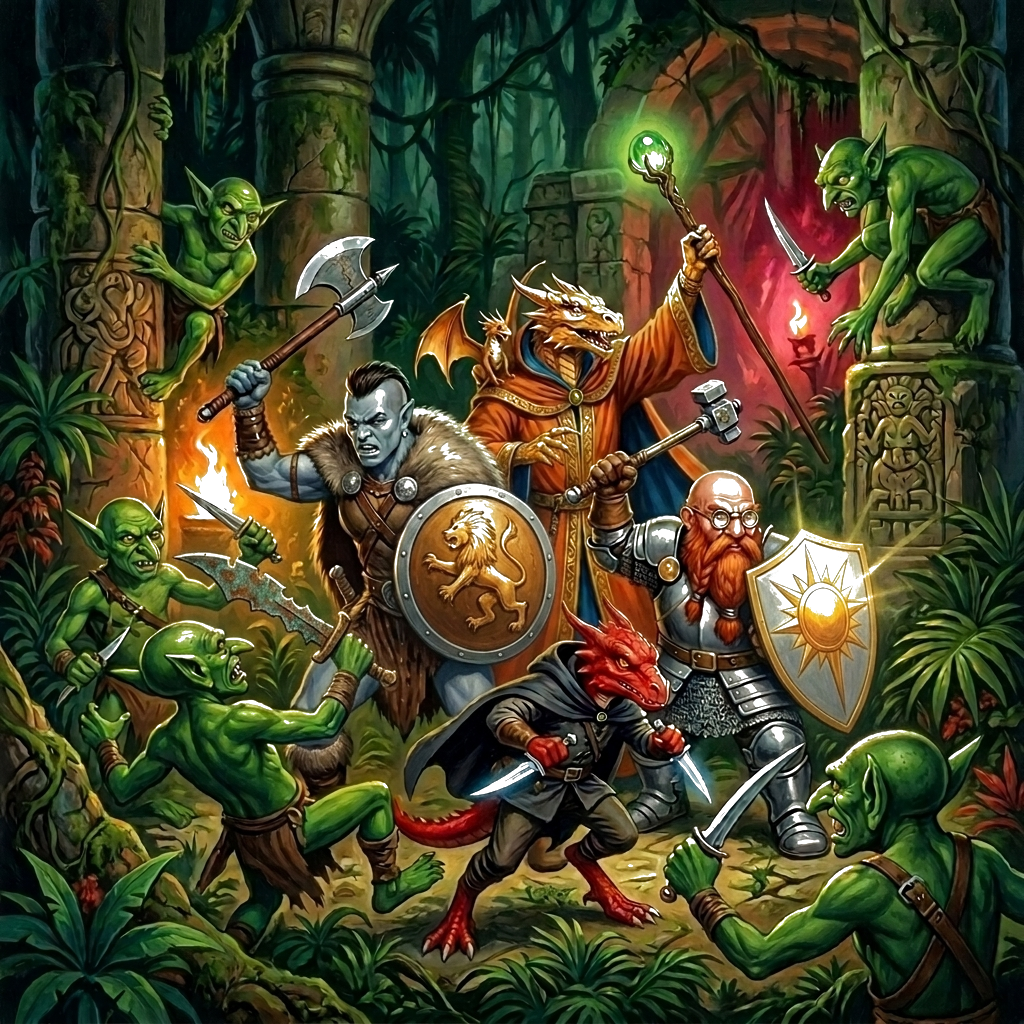
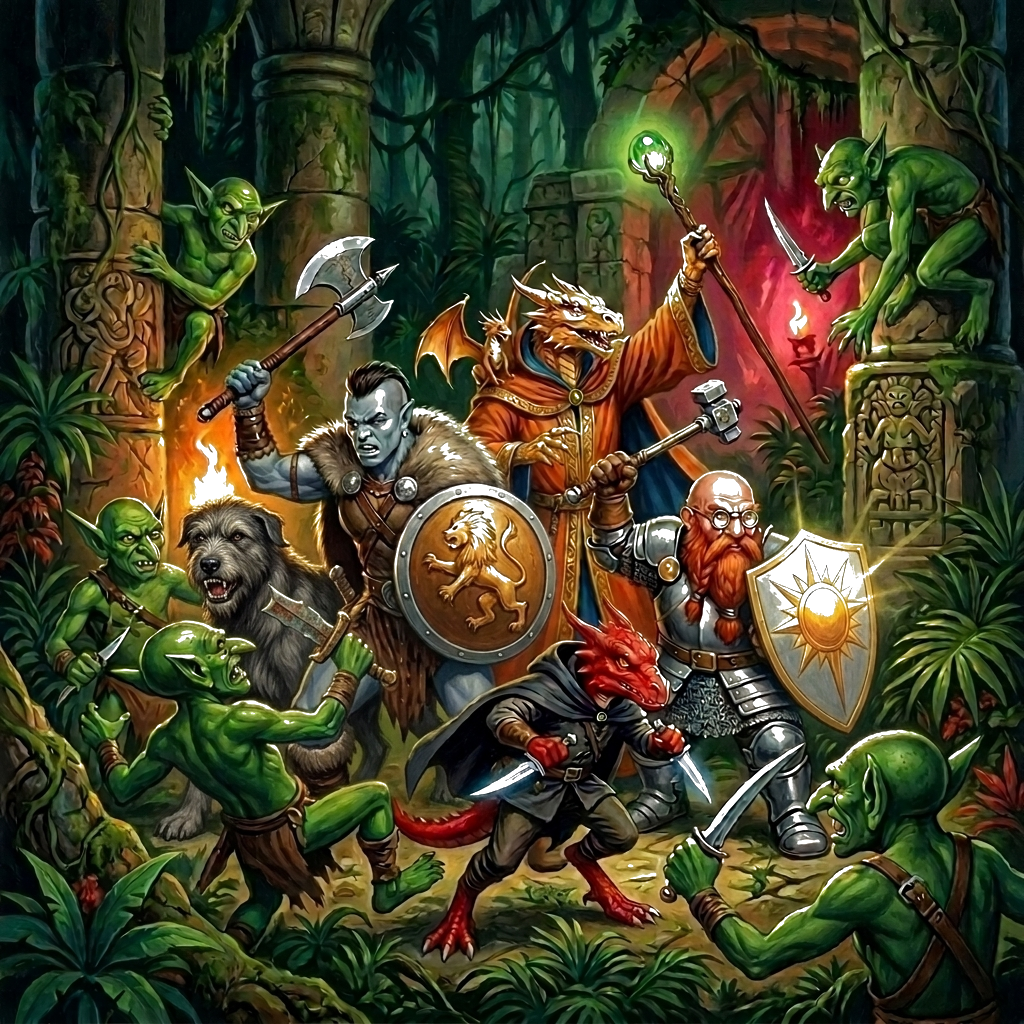
feat: add Loki the wolfhound to cover art next to Thorn [skip netlify]

diff --git a/src/lib/build-info.ts b/src/lib/build-info.ts
@@ -1,3 +1,3 @@
 // Generated by scripts/write-build-info.mjs — do not edit
-export const SITE_EDITION = "66978c7";
-export const SITE_BUILT_AT = "2026-07-27T12:16:56.447Z";
+export const SITE_EDITION = "97db686";
+export const SITE_BUILT_AT = "2026-07-27T16:15:57.130Z";
